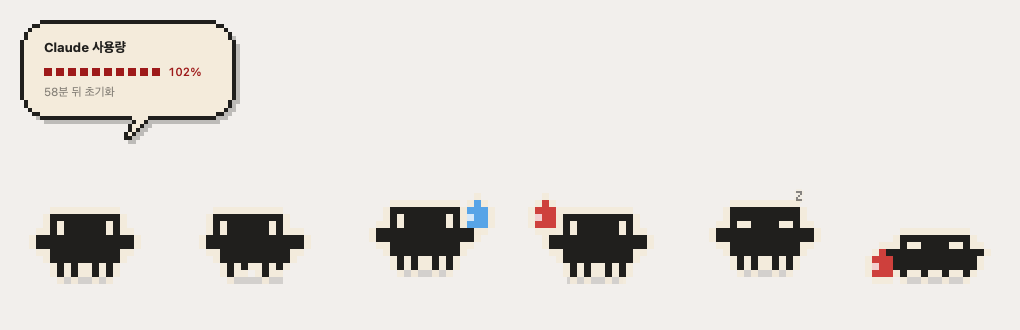
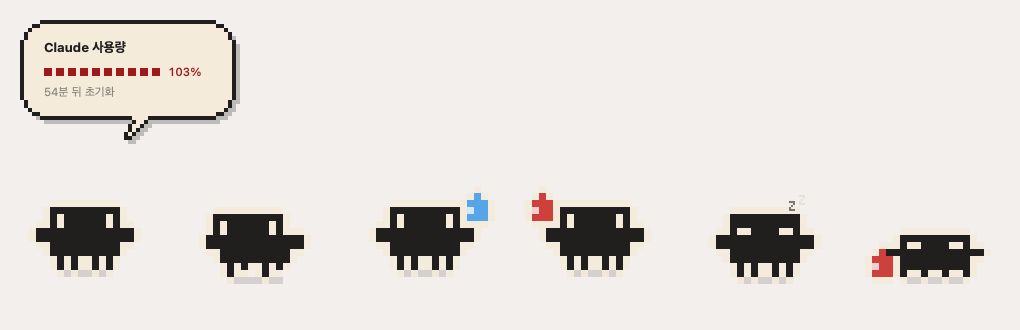
주저앉은 모습이 제자리뛰기처럼 보이던 문제 수정
가쁜 숨을 위아래 한 칸 들썩임으로 표현했더니, 지쳐 있는 게 아니라
뛰는 것처럼 보였다. 몸은 바닥에 붙여 두고 옆으로만 부풀었다 꺼지게 하고,
주기도 느리게 늦췄다.

diff --git a/buddy/sprite.py b/buddy/sprite.py
@@ -113,7 +113,13 @@ def cell_size(size: float) -> int:
 def frame_rows(st: MascotState) -> list[str]:
     """현재 상태에 맞는 도안 한 장을 만든다."""
     if st.mood == "exhausted":
-        return list(_LYING)
+        rows = list(_LYING)
+        if st.step_phase:
+            # 날숨 — 몸이 옆으로 한 칸씩 꺼진다.
+            # 위아래로 움직이면 누운 게 아니라 제자리뛰기처럼 보인다.
+            rows[6] = "  ##########  "
+            rows[7] = "  ##########  "
+        return rows
 
     rows = list(_BASE)
 
@@ -306,11 +312,11 @@ def _draw_zzz(origin_x: int, origin_y: int, cell: int, grid_h: int, st: MascotSt
 def step(st: MascotState, t: float) -> None:
     """시간 t(초)에 맞춰 애니메이션 값을 갱신한다. 전부 칸 단위로만 움직인다."""
     if st.mood == "exhausted":
-        # 가쁜 숨만 쉰다
-        st.bob = int(t * 2.4) % 2
-        st.step_phase = 0
+        # 바닥에 붙어 느리게 숨만 쉰다. 몸이 떠오르면 안 된다.
+        st.bob = 0
+        st.step_phase = int(t * 0.8) % 2
         st.jitter = 0
-        st.zzz = (t * 1.3) % 1.0
+        st.zzz = (t * 0.7) % 1.0
         return
 
     if st.mood == "sleepy":
